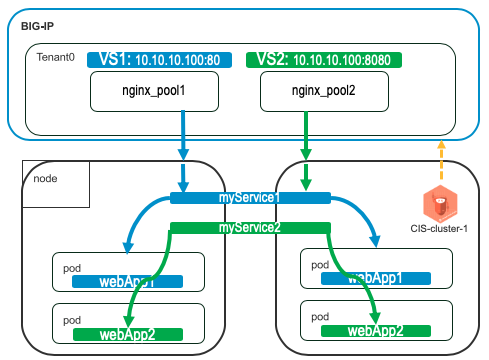
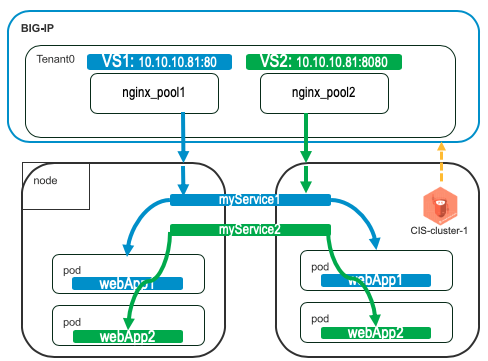
add multi vips scenario

Changed region(s): [[0.0, 0.0, 0.9836, 1.0], [0.0307, 0.9167, 0.0615, 0.9472]]

diff --git a/docs/class2/module6/module6.rst b/docs/class2/module6/module6.rst
@@ -1,29 +1,28 @@
-AS3 Configmap: Multiple Apps in Single Partition - Single Virtual Address
+AS3 Configmap: Multiple Apps in Single Partition - Multiple Virtual Addresses
 ================================================
 
 
 **Description**: 
-This section will cover some best practices, tips, and caveats when configuring multiple apps (virtual servers) in the AS3 declaration. In this scenario, an application owner wants to configure multiple applications that may use different protocols. The tenant/partition will be the same.
+This section will cover some best practices, tips, and caveats when configuring multiple apps (virtual servers) in the AS3 declaration. In this scenario, an application owner wants to configure multiple applications that may use different protocols and virtual IPs. The tenant/partition will be the same.
 For more examples, see |github|_. 
 
 **Prerequisites**: 
 - Basic understanding REST APIs and declarative configuration.
 
-**Diagrams**:
+**Diagram**:
 
-|mod-4-1|
+|mod-5-1|
 
 Summary
 ------------------
 You can declare multiple applications (virtual servers) in a single partition/tenant. 
 
 #. Define one tenant
-#. Define one virtual address in a Shared application block
-#. Define first application in the tenant block referencing above virtual address using :code:`"use"`
-#. Similarly, define second application in the same tenant block
+#. Define first application in the tenant block with one virtual address
+#. Similarly, define second application with its own virtual address in the same tenant block
 
 .. code-block:: yaml
-   :emphasize-lines: 21-29,30,54
+   :emphasize-lines: 20,23-27,49,52-56
 
     kind: ConfigMap
     apiVersion: v1
@@ -45,22 +44,18 @@ You can declare multiple applications (virtual servers) in a single partition/te
                 "remark": "example",
                 "Tenant0": {
                     "class": "Tenant",
-                    "Shared": {
-                        "class": "Application_Shared",
-                        "template":"shared",
+                    "App1": {
+                        "class": "Application",
+                        "template": "http",
                         "serviceAddress0": {
                             "class": "Service_Address",
                             "virtualAddress": "10.1.10.81",
                             "trafficGroup": "/Common/traffic-group-1"
-                        }
-                    },
-                    "App1": {
-                        "class": "Application",
-                        "template": "http",
+                        },
                         "serviceMain": {
                             "class": "Service_HTTP",
                             "trafficGroup": "traffic-group-1",
-                            "virtualAddresses": [{ "use": "/Tenant0/Shared/serviceAddress0"}],
+                            "virtualAddresses": [{ "use": "/Tenant0/App1/serviceAddress0"}],
                             "virtualPort": 80,
                             "pool": "nginx_pool1"
                         },
@@ -81,10 +76,15 @@ You can declare multiple applications (virtual servers) in a single partition/te
                     "App2": {
                         "class": "Application",
                         "template": "http",
+                        "serviceAddress1": {
+                            "class": "Service_Address",
+                            "virtualAddress": "10.1.10.82",
+                            "trafficGroup": "/Common/traffic-group-1"
+                        },
                         "serviceMain": {
                             "class": "Service_HTTP",
                             "trafficGroup": "traffic-group-1",
-                            "virtualAddresses": [{ "use": "/Tenant0/Shared/serviceAddress0"}],
+                            "virtualAddresses": [{ "use": "/Tenant0/App2/serviceAddress1"}],
                             "virtualPort": 8080,
                             "pool": "nginx_pool2"
                         },
@@ -106,13 +106,14 @@ You can declare multiple applications (virtual servers) in a single partition/te
             }
         }
 
+
 **Confirm BIG-IP Objects**:
 
-- Two Virtual Servers listening on different ports in the same partition (Tenant0)
+- Two Virtual Servers listening on different ports in the same partition (Tenant0), with different Virtual IPs
 
     |mod-4-2|
 
-- One Virtual IP in traffic-group-1
+- Two Virtual IPs in traffic-group-1
 
     |mod-4-3|
 
@@ -128,8 +129,8 @@ You can declare multiple applications (virtual servers) in a single partition/te
 .. |github| replace:: F5 DevCentral f5-k8s-demo repository
 .. _github: https://github.com/f5devcentral/f5-k8s-demo/tree/master/chen-k8s-demo/deployment
 
-.. |mod-4-1| image:: images/mod-4-1.png
-.. |mod-4-2| image:: images/mod-4-2.png
-.. |mod-4-3| image:: images/mod-4-3.png
-.. |mod-4-4| image:: images/mod-4-4.png
-.. |mod-4-5| image:: images/mod-4-5.png
+.. |mod-5-1| image:: images/mod-5-1.png
+.. |mod-5-2| image:: images/mod-5-2.png
+.. |mod-5-3| image:: images/mod-5-3.png
+.. |mod-5-4| image:: images/mod-5-4.png
+.. |mod-5-5| image:: images/mod-5-5.png

diff --git a/docs/class2/module5/module5.rst b/docs/class2/module5/module5.rst
@@ -1,9 +1,9 @@
-AS3 Configmap: Multiple Apps in Single Partition - Single Virtual Address
+AS3 Configmap: Multiple Apps in Single Partition - Multiple Virtual Addresses
 ================================================
 
 
 **Description**: 
-This section will cover some best practices, tips, and caveats when configuring multiple apps (virtual servers) in the AS3 declaration. In this scenario, an application owner wants to configure multiple applications that may use different protocols. The tenant/partition will be the same.
+This section will cover some best practices, tips, and caveats when configuring multiple apps (virtual servers) in the AS3 declaration. In this scenario, an application owner wants to configure multiple applications that may use different protocols and virtual IPs. The tenant/partition will be the same.
 For more examples, see |github|_. 
 
 **Prerequisites**: 
@@ -11,19 +11,18 @@ For more examples, see |github|_.
 
 **Diagram**:
 
-|mod-4-1|
+|mod-5-1|
 
 Summary
 ------------------
 You can declare multiple applications (virtual servers) in a single partition/tenant. 
 
 #. Define one tenant
-#. Define one virtual address in a Shared application block
-#. Define first application in the tenant block referencing above virtual address using :code:`"use"`
-#. Similarly, define second application in the same tenant block
+#. Define first application in the tenant block with one virtual address
+#. Similarly, define second application with its own virtual address in the same tenant block
 
 .. code-block:: yaml
-   :emphasize-lines: 78,101
+   :emphasize-lines: 20,23-27,49,52-56
 
     kind: ConfigMap
     apiVersion: v1
@@ -45,22 +44,18 @@ You can declare multiple applications (virtual servers) in a single partition/te
                 "remark": "example",
                 "Tenant0": {
                     "class": "Tenant",
-                    "Shared": {
-                        "class": "Application_Shared",
-                        "template":"shared",
+                    "App1": {
+                        "class": "Application",
+                        "template": "http",
                         "serviceAddress0": {
                             "class": "Service_Address",
                             "virtualAddress": "10.1.10.81",
                             "trafficGroup": "/Common/traffic-group-1"
-                        }
-                    },
-                    "App1": {
-                        "class": "Application",
-                        "template": "http",
+                        },
                         "serviceMain": {
                             "class": "Service_HTTP",
                             "trafficGroup": "traffic-group-1",
-                            "virtualAddresses": [{ "use": "/Tenant0/Shared/serviceAddress0"}],
+                            "virtualAddresses": [{ "use": "/Tenant0/App1/serviceAddress0"}],
                             "virtualPort": 80,
                             "pool": "nginx_pool1"
                         },
@@ -81,10 +76,15 @@ You can declare multiple applications (virtual servers) in a single partition/te
                     "App2": {
                         "class": "Application",
                         "template": "http",
+                        "serviceAddress1": {
+                            "class": "Service_Address",
+                            "virtualAddress": "10.1.10.82",
+                            "trafficGroup": "/Common/traffic-group-1"
+                        },
                         "serviceMain": {
                             "class": "Service_HTTP",
                             "trafficGroup": "traffic-group-1",
-                            "virtualAddresses": [{ "use": "/Tenant0/Shared/serviceAddress0"}],
+                            "virtualAddresses": [{ "use": "/Tenant0/App2/serviceAddress1"}],
                             "virtualPort": 8080,
                             "pool": "nginx_pool2"
                         },
@@ -106,10 +106,31 @@ You can declare multiple applications (virtual servers) in a single partition/te
             }
         }
 
-    
+
+**Confirm BIG-IP Objects**:
+
+- Two Virtual Servers listening on different ports in the same partition (Tenant0), with different Virtual IPs
+
+    |mod-4-2|
+
+- Two Virtual IPs in traffic-group-1
+
+    |mod-4-3|
+
+- Two pools associated with each Virtual Server
+
+    |mod-4-4|
+
+- The nodes (pool member IPs) are automatically discovered and placed in the :code:`/Common` partition
+
+    |mod-4-5|
 
 
 .. |github| replace:: F5 DevCentral f5-k8s-demo repository
 .. _github: https://github.com/f5devcentral/f5-k8s-demo/tree/master/chen-k8s-demo/deployment
 
-.. |mod-4-1| image:: images/mod-4-1.png
+.. |mod-5-1| image:: images/mod-5-1.png
+.. |mod-5-2| image:: images/mod-5-2.png
+.. |mod-5-3| image:: images/mod-5-3.png
+.. |mod-5-4| image:: images/mod-5-4.png
+.. |mod-5-5| image:: images/mod-5-5.png
